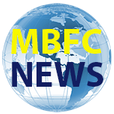
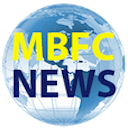
Remove direct link to source, add MOSTLY FACTUAL

diff --git a/popup.js b/popup.js
@@ -54,8 +54,6 @@ document.addEventListener('DOMContentLoaded', function() {
         setTimeout(function() {
           document.getElementById('bias').textContent = bias.name;
           document.getElementById('description').textContent = bias.description;
-          document.getElementById('homepage').textContent = source.name;
-          document.getElementById('homepage').setAttribute('href', source.homepage);
           document.getElementById('more-info').setAttribute('href', source.url);
           var factualParagraph = document.getElementById('factualParagraph');
           var factualEl = document.getElementById('factual');
@@ -64,7 +62,8 @@ document.addEventListener('DOMContentLoaded', function() {
           } else {
             factualParagraph.style.display = 'block';
             factualEl.textContent = source.factual;
-            factualEl.classList.add([source.factual]);
+            // change MOSTLY FACTUAL to MOSTLY
+            factualEl.classList.add([source.factual.split(' ')[0]]);
           }
           document.body.style.display = 'block';
         }, 50);

diff --git a/popup.html b/popup.html
@@ -31,6 +31,10 @@
       .LOW {
         color: #f00;
       }
+
+      .MOSTLY {
+        color: #808000;
+      }
     </style>
     <!--
       - JavaScript and HTML must be in separate files: see our Content Security
@@ -45,11 +49,7 @@
   <body>
     <h1 id="bias"></h1>
     <p id="description"></p>
-    <h2 id="name">
-      <a id="homepage" href=""></a>
-    </h2>
     <p id="factualParagraph">Factual reporting: <span id="factual"></span></p>
-    <a id="more-info" href="">More info on MBFC</a>
+    <a id="more-info" href="">Read Detailed Report</a>
   </body>
 </html>
-
